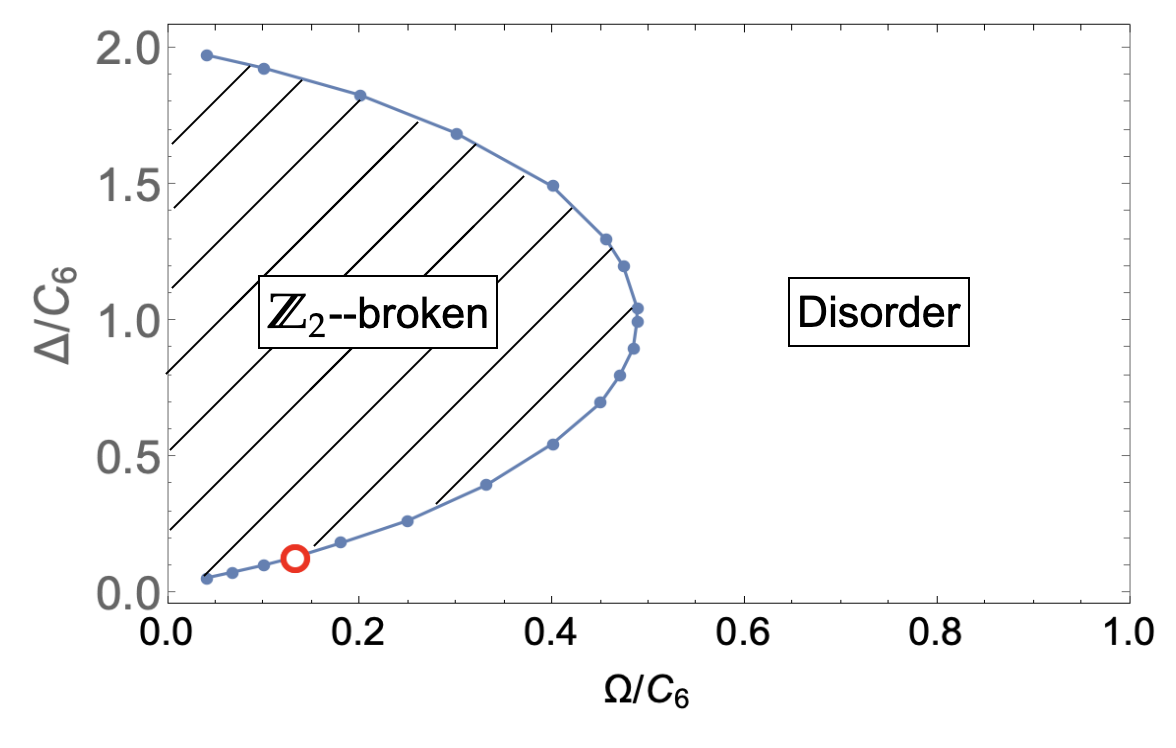
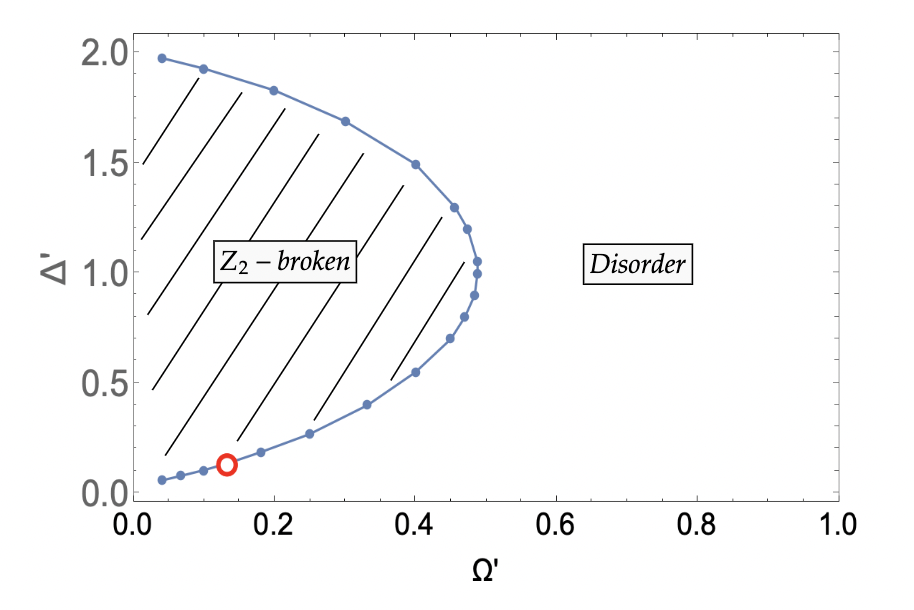
redo the phase diagram

diff --git a/proposal_share.tex b/proposal_share.tex
@@ -143,8 +143,8 @@ The experimentally accessible parameter space is, roughly, \cite[Tab. 1]{noise-n
 The phase diagram near the Ising transition is reported in Fig.~\ref{phasediagramHBlong}.
 \begin{figure}[htbp]
 \centering
-\includegraphics[scale=0.5]{phase_diagram_SSF_LR.png}
-\caption{The phase diagram of the Rydberg model \eqref{eq:model}. The red circle corresponds to the point studied in~\cite{FangFang:2024eaw}. \SR{Redo with $\Omega'$, $\Delta'$ instead of $\Omega/C_6$, $\Delta/C_6$ on the axes.}}
+\includegraphics[scale=0.7]{phase_diagram_SSF_LR.png}
+\caption{The phase diagram of the Rydberg model \eqref{eq:model}. The red circle corresponds to the point studied in~\cite{FangFang:2024eaw}.}
 \label{phasediagramHBlong}
 \end{figure}
 
@@ -156,7 +156,7 @@ We have
 \beq
 \sum_{j=1}^{L-1} \frac{1}{2d_{j0}^6} = \zeta(6) +O(1/L^2)=1.01734\ldots+O(1/L^2)
 \eeq
-For $\Delta'=\zeta(6)$ the model has the exact $\mathbb{Z_2}$ symmetry. This is the "tip of the parabola" in Fig. \ref{phasediagramHBlong}. On the line $\Delta'=\zeta(6)$ the model is very nearly approximated by the transverse field Ising model (TFIM). The phase transition in the TFIM would be at $\Omega'=1/2$. The phase diagram is symmetric with respect to $\Delta'=\zeta(6)$.
+For $\Delta'=\zeta(6)$ the model has the exact $\mathbb{Z}_2$ symmetry. This is the "tip of the parabola" in Fig. \ref{phasediagramHBlong}. On the line $\Delta'=\zeta(6)$ the model is very nearly approximated by the transverse field Ising model (TFIM). The phase transition in the TFIM would be at $\Omega'=1/2$. The phase diagram is symmetric with respect to $\Delta'=\zeta(6)$.
 
 For general $\Delta'\in(0,1)$, the Hamiltonian $\hat H$ does not have onsite $\mathbb{Z}_2$ symmetry. But the phase transition is still in the $\mathbb{Z}_2$-symmetric Ising-CFT universality class. The $\mathbb{Z}_2$ symmetry of the CFT will emerge from a lattice translation by one lattice unit. (In the broken phase, the expectation value $\langle n_i \rangle$ is periodic with period 2, and shift by one lattice unit permutes the two ground states.) This will have to be taken into account when constructing lattice operators which represent CFT operators.
 
